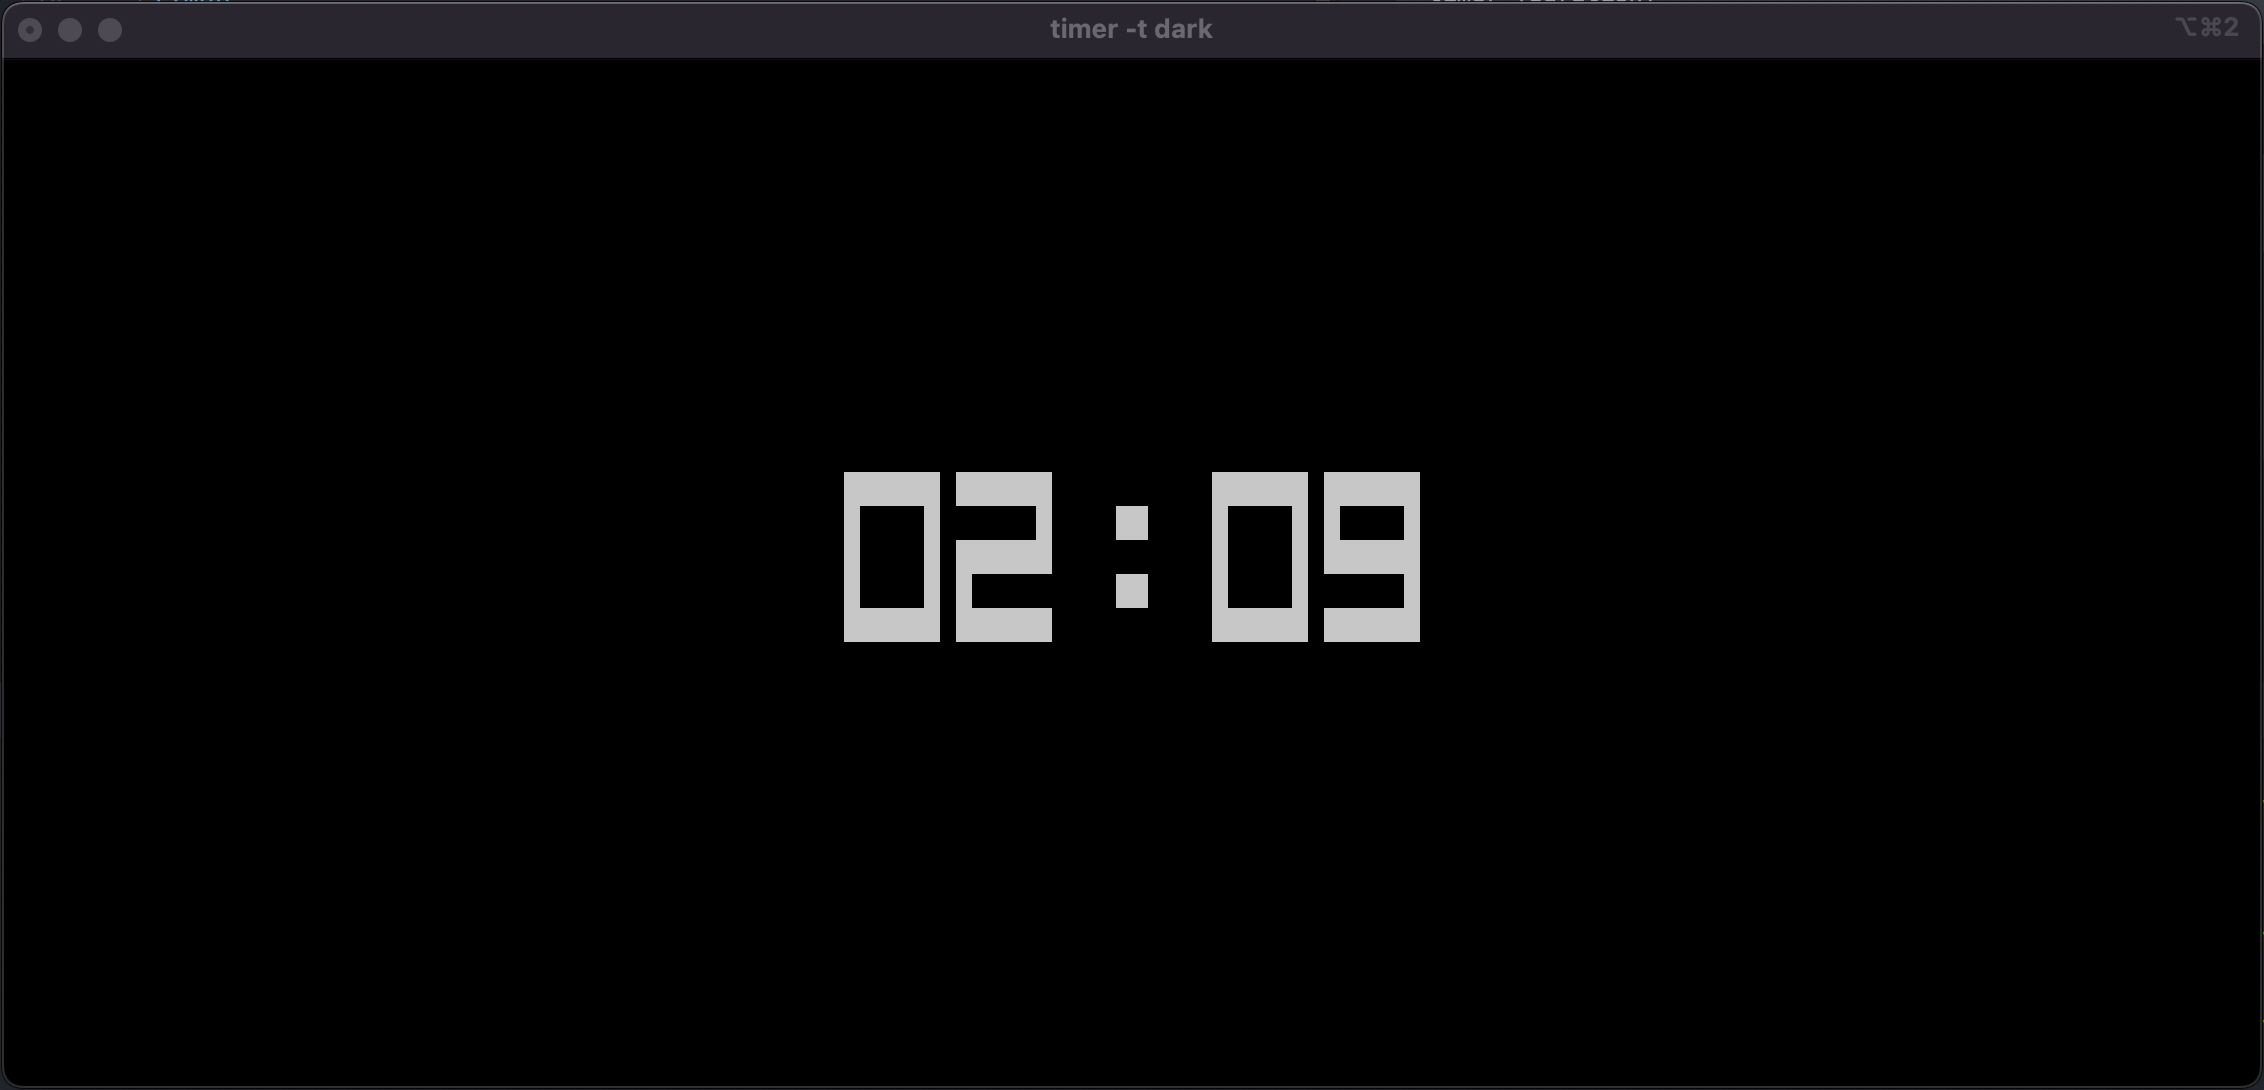
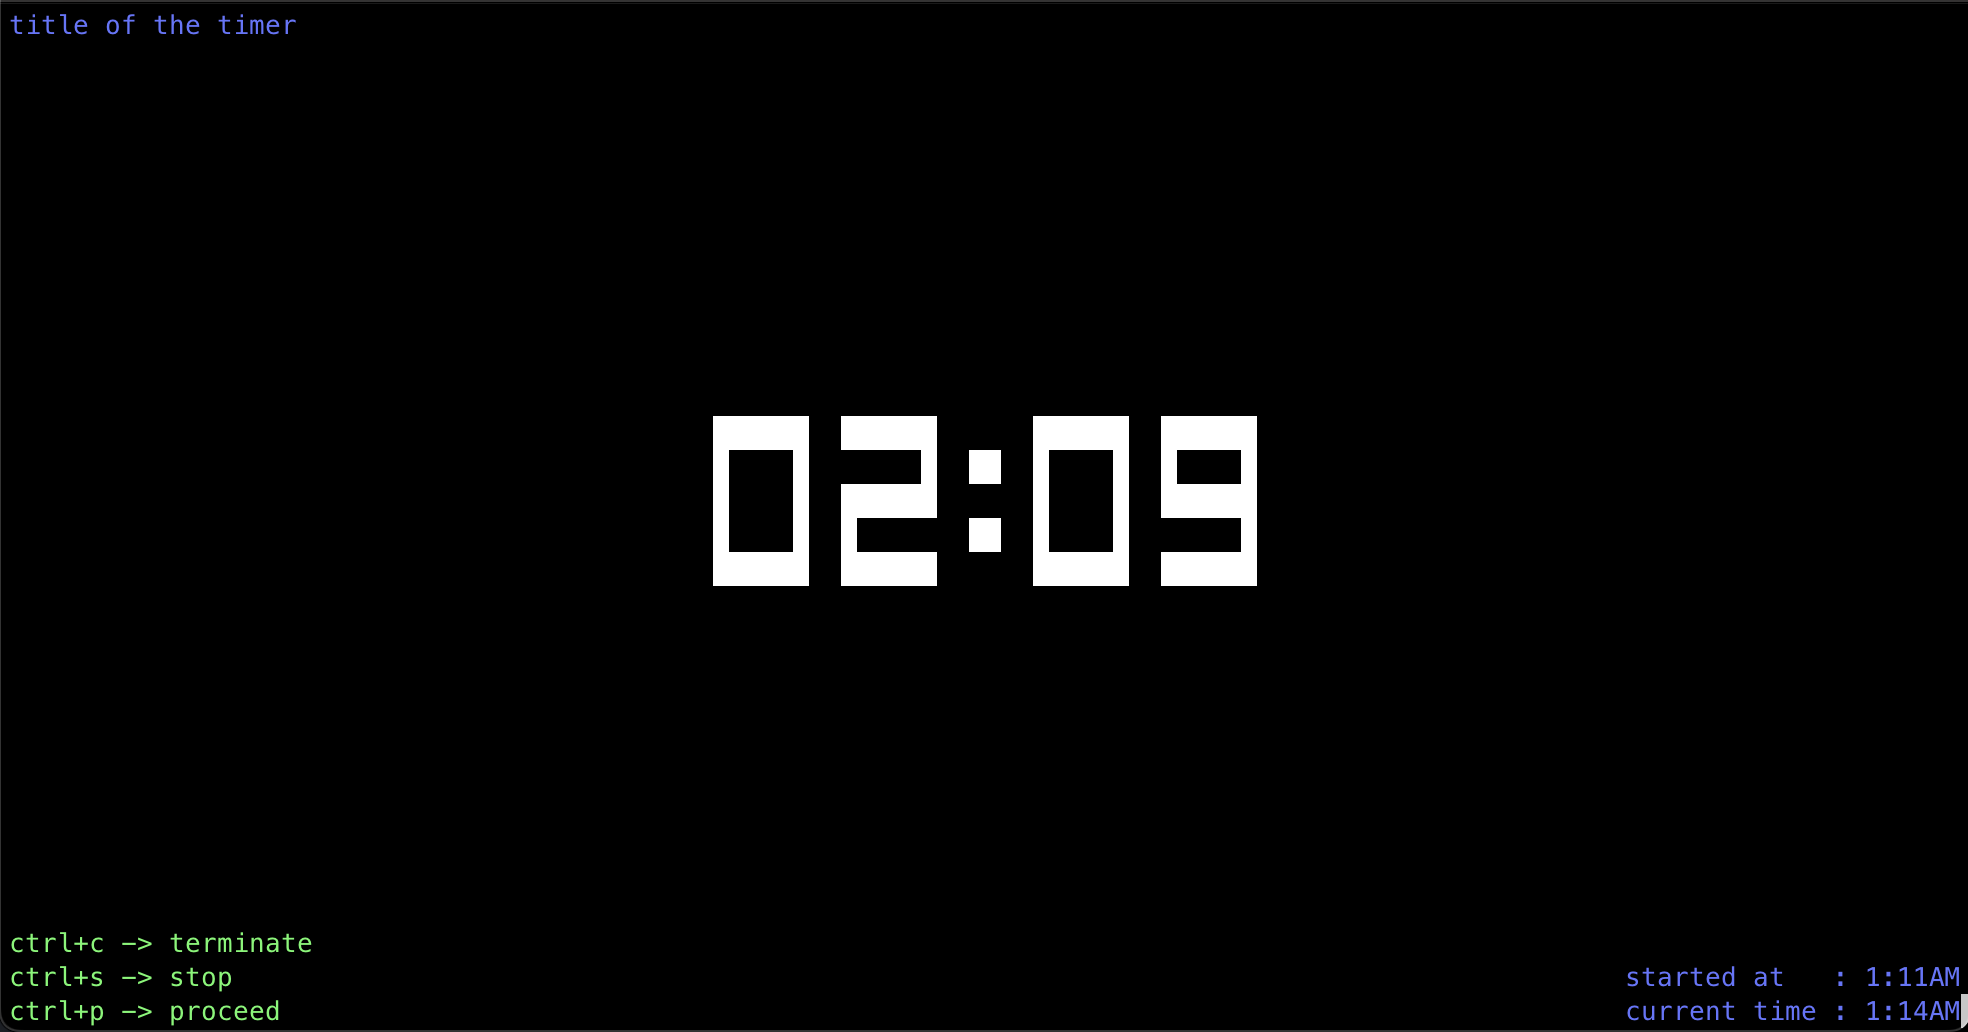
update README.md file

Changed region(s): [[0.0, 0.0, 1.0, 1.0], [0.341, 0.4031, 0.6509, 0.5891]]

diff --git a/cmd.go b/cmd.go
@@ -12,7 +12,7 @@ import (
 var commandLine = flag.NewFlagSet(os.Args[0], flag.ContinueOnError)
 var flagParseError = false
 
-var theme = commandLine.String("t", "dark", "theme of the renderer on the console")
+var theme = commandLine.String("t", "dark", "theme of the renderer [dark, light]")
 var title = commandLine.String("T", "", "title of timer")
 
 func main() {

diff --git a/README.md b/README.md
@@ -1,30 +1,33 @@
 # Timer CLI
 
-Console timer app
-
-start countdown:
+Timer console app.
 
 ```shell
-timer [duration]
+go install github.com/semihbkgr/timercli@latest
 ```
 
-start stopwatch:
+Starting timer:
 
 ```shell
-timer
+$ timer #stopwatch
+$ timer [duration] #countdown
 ```
 
-to list available options:
+'duration' arg is a possibly signed sequence of decimal numbers, each with optional fraction and a unit suffix, such as "300ms", "-1.5h" or "2h45m".
+
+Listing available args:
 
 ```shell
-timer -h
-```
-```
-Usage of timer:
-  -t string
-    	theme of the renderer on the console (default "light")
+$ timer -h
 ```
 
+- -T : title of timer
+- -t : theme of the renderer [dark, light]
 
+OS signals to control timer
+
+- Ctrl + C : terminate
+- Ctrl + S : stop
+- Ctrl + P : proceed
 
 ![console](./console.png)
